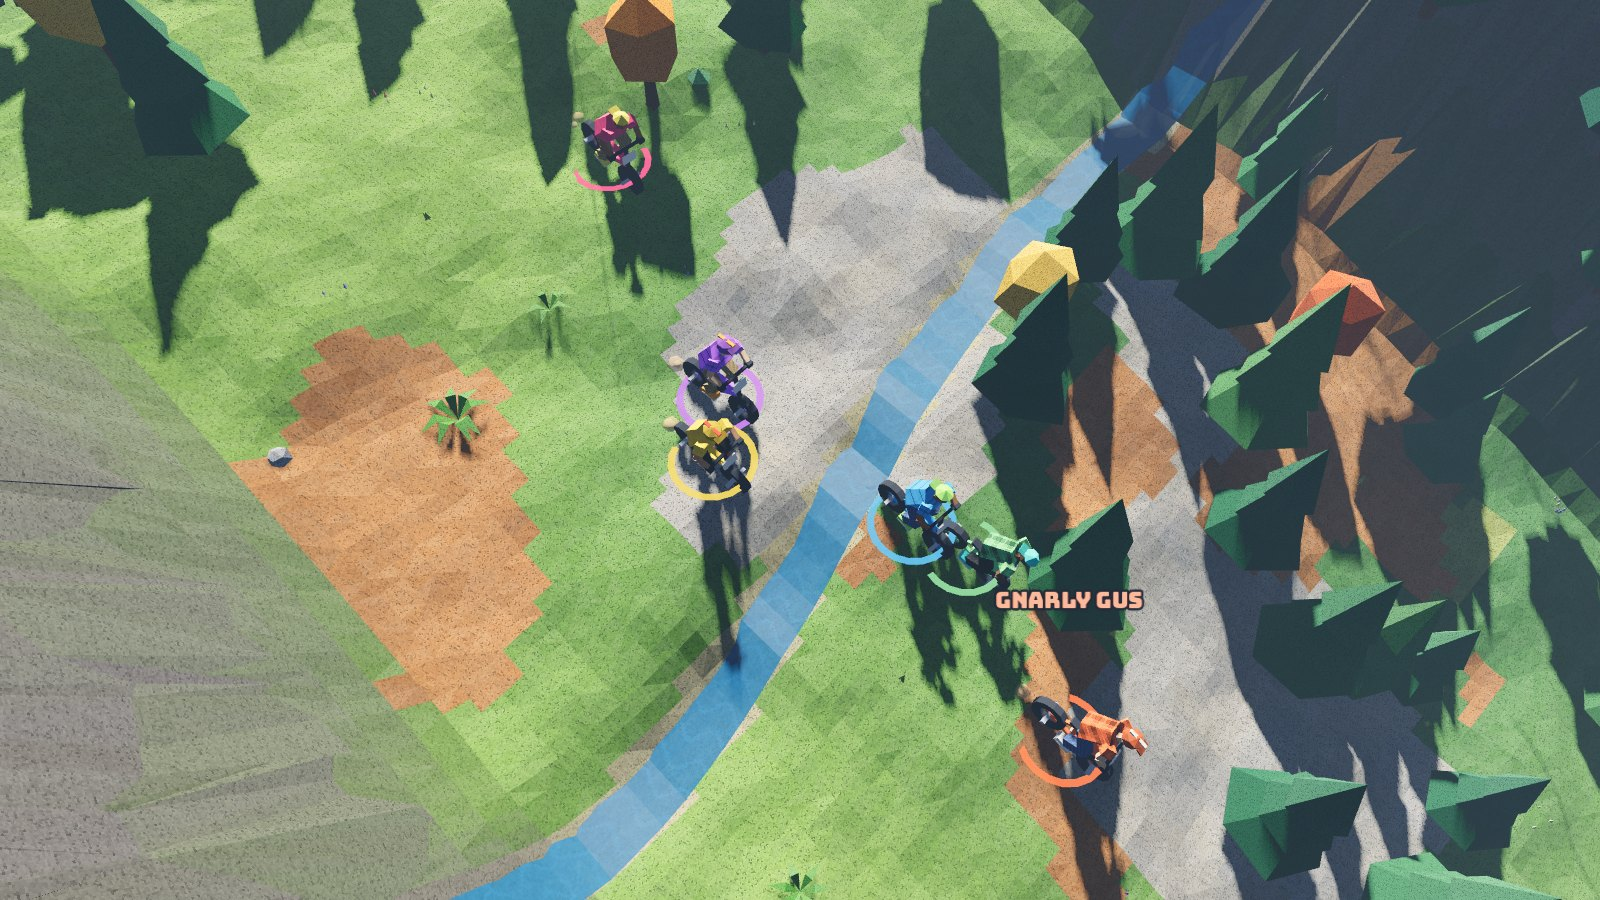
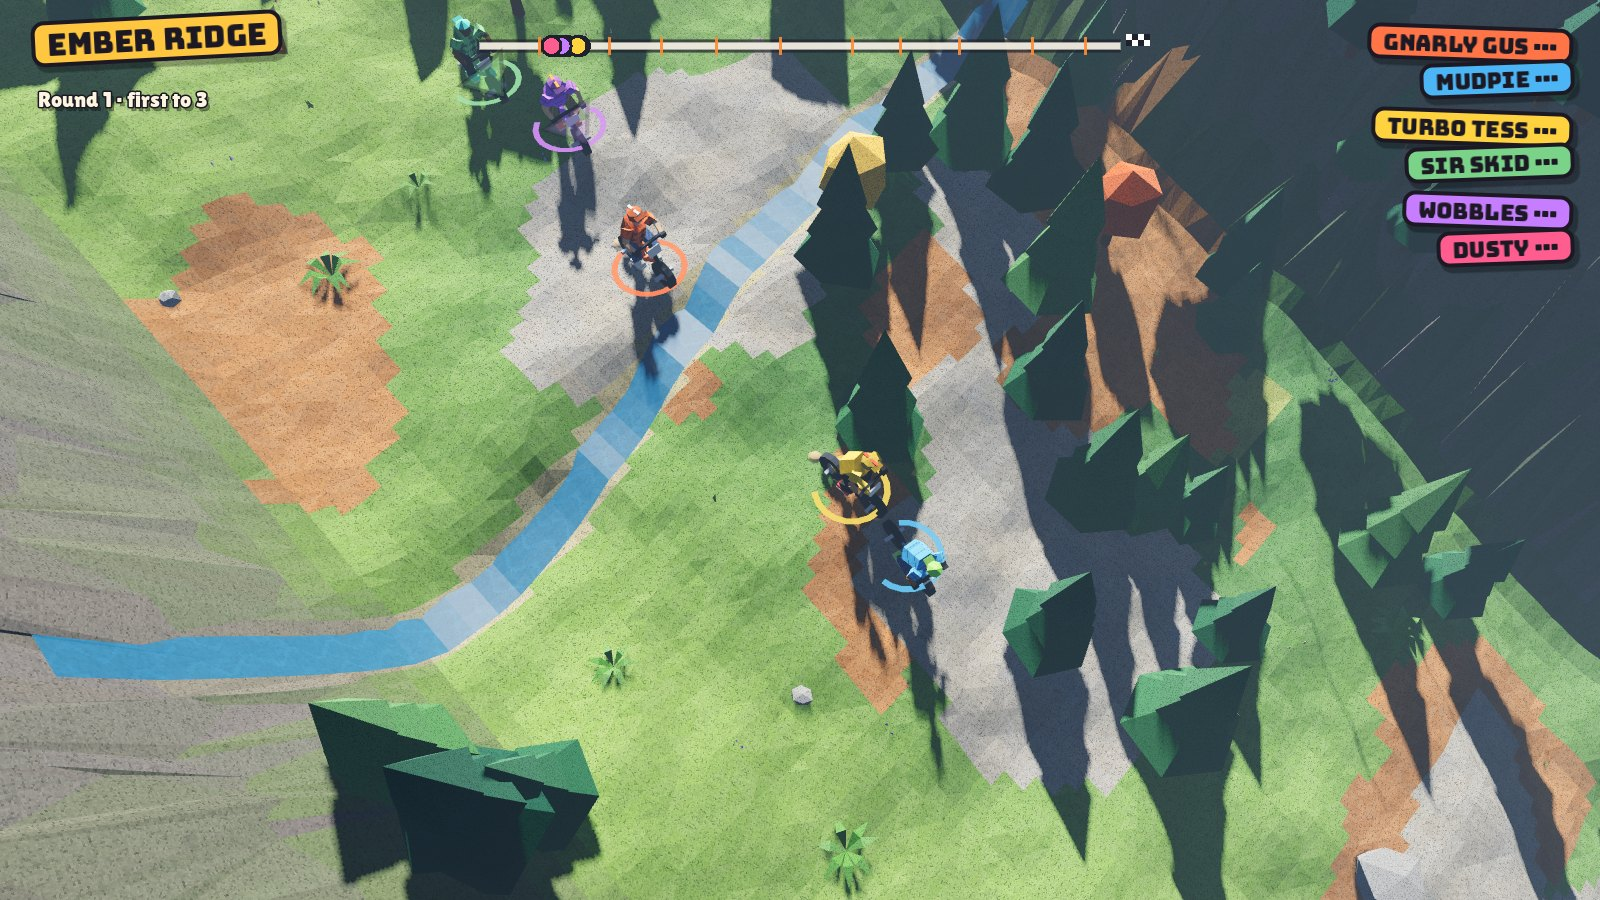
Downhill Rush: give the leader room to see ahead
The camera now centres 4 m behind the leader instead of 11 and sits a bit
higher, so the rider in front sits just past the middle of the screen with
the slope ahead in view.

Claude-Session: https://claude.ai/code/session_01XKbriPGpWUjPCX5T7BApuq

diff --git a/downhill-rush/README.md b/downhill-rush/README.md
@@ -2,8 +2,8 @@
 
 A top-down BMX downhill survival race for GameNight: everyone rides the same
 procedurally generated mountain on one shared screen, seen from above with
-downhill always running to the bottom right. The leader rides near that corner
-and sees the least of what's coming; the camera follows them and never waits. Fall behind, crash once too often or take the scenic route and
+downhill always running to the bottom right. The camera keeps the leader a
+little past the middle, so they still see the slope ahead, and never waits. Fall behind, crash once too often or take the scenic route and
 you drop off the bottom of the screen: you're out. Last rider standing, or
 first through the finish gate, takes the round. First to three rounds wins.
 
